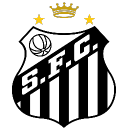
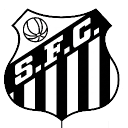
v2.7: atualiza escudos do Santos e São Paulo
Novas versões dos PNGs em F:\Design\Bolerage\Times (São Paulo sem as
estrelas, Santos sem coroa) — ambas vieram de novo com o fundo
"sujo" (xadrez de transparência falsa achatado na imagem); tratadas
com o mesmo processo de remoção de fundo por flood-fill, recorte e
redimensionamento para 128x128 com transparência real.

diff --git a/public/sw.js b/public/sw.js
@@ -4,7 +4,7 @@
    - troca de versão do CACHE limpa o cache antigo
    Se algum dia isso causar problema, publicar um sw.js que só faz
    self.registration.unregister() + caches.keys().then(k=>k.forEach(caches.delete)). */
-const CACHE = 'bolerage-shell-2.6';
+const CACHE = 'bolerage-shell-2.7';
 const SHELL = ['/', '/index.html', '/app.js', '/styles.css', '/manifest.json', '/assets/logo.jpg'];
 
 self.addEventListener('install', (e) => {

diff --git a/server.js b/server.js
@@ -7,7 +7,7 @@
 // Contador de release: soma 1 a cada deploy. A virada de "major" é automática —
 // no máximo 9 releases por major (0 a 9), minor com um dígito só: 2.0 -> 2.1 ... 2.9 -> 3.0 -> 3.1 ...
 // (reiniciado nesta versão: build 0 = 2.0, ciclo de 10 a partir daqui.)
-const APP_BUILD = 6;
+const APP_BUILD = 7;
 function computeVersion(b){
   const minor = b % 10;
   const major = 2 + Math.floor(b / 10);
